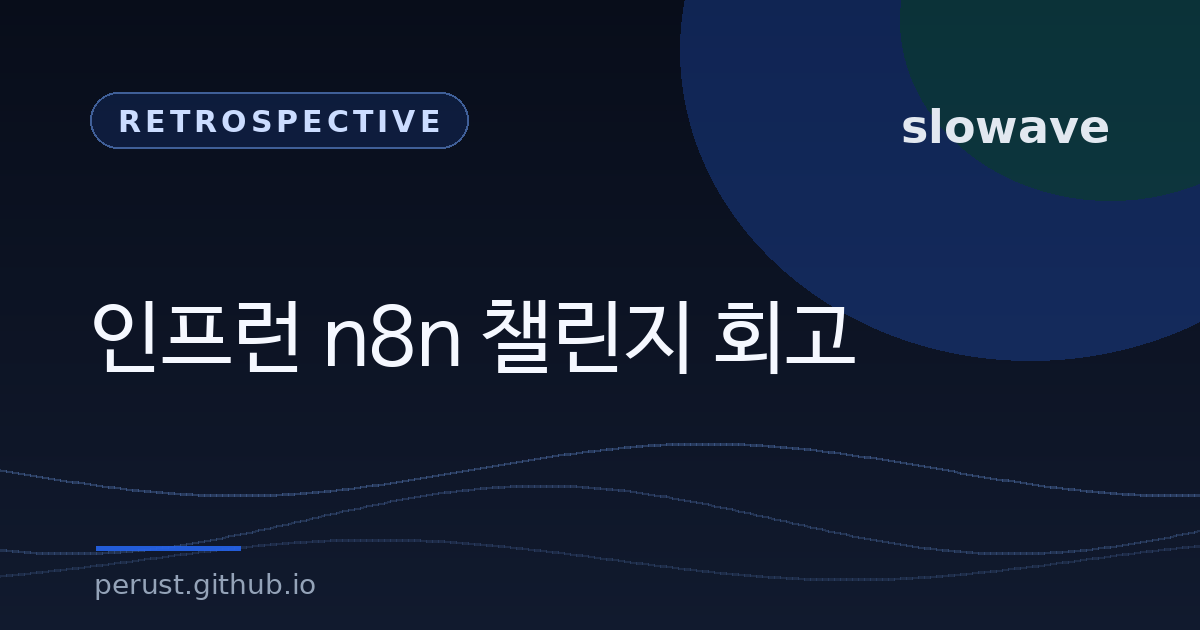
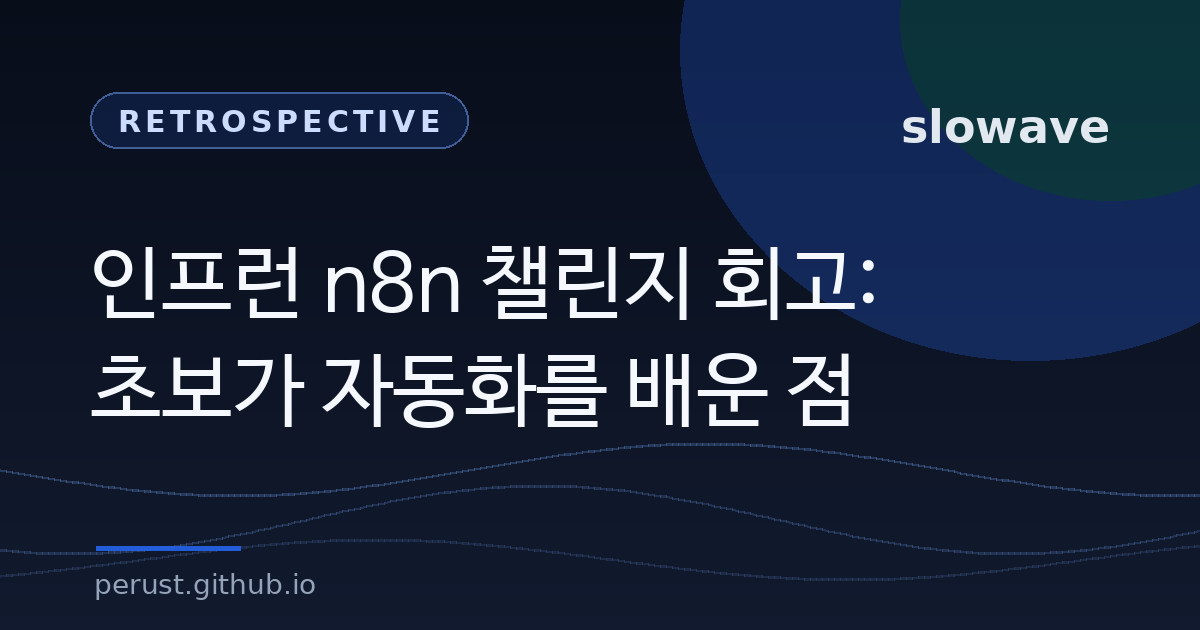
Optimize n8n retrospective for search

Changed region(s): [[0.0617, 0.3921, 0.74, 0.6937]]

diff --git a/src/content.config.ts b/src/content.config.ts
@@ -9,6 +9,8 @@ const blog = defineCollection({
     updated: z.coerce.date().optional(),
     category: z.string(),
     tags: z.array(z.string()).default([]),
+    // 실제 본문에 FAQ 섹션이 있는 글에만 사용한다. 있으면 FAQPage JSON-LD를 함께 출력한다.
+    faqs: z.array(z.object({ question: z.string(), answer: z.string() })).optional(),
     // OG 이미지를 글마다 직접 지정할 때만 사용. 없으면 카테고리 기본 이미지로 대체된다.
     image: z.string().optional(),
   }),